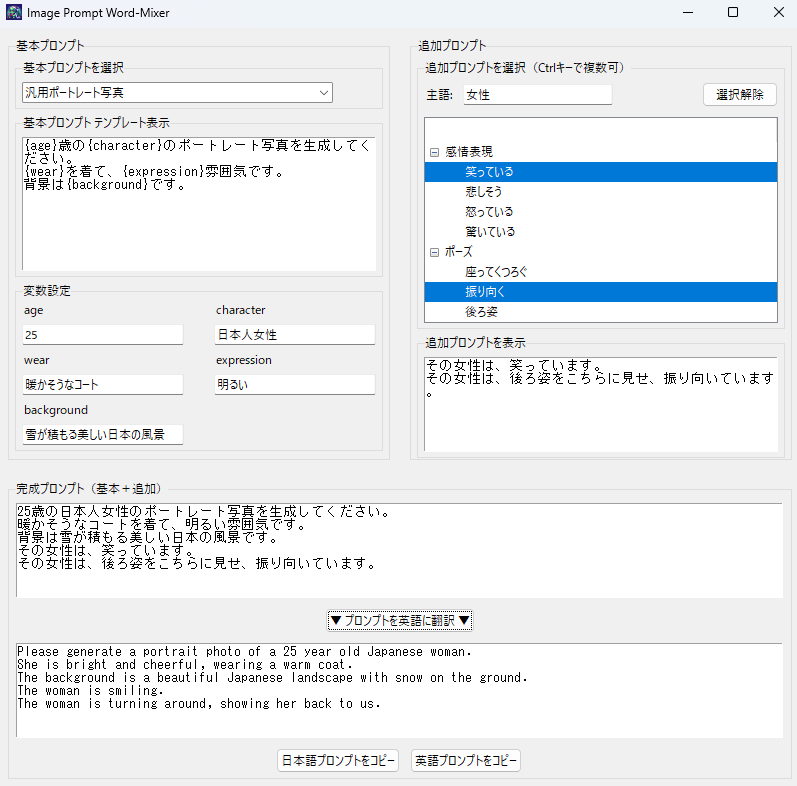
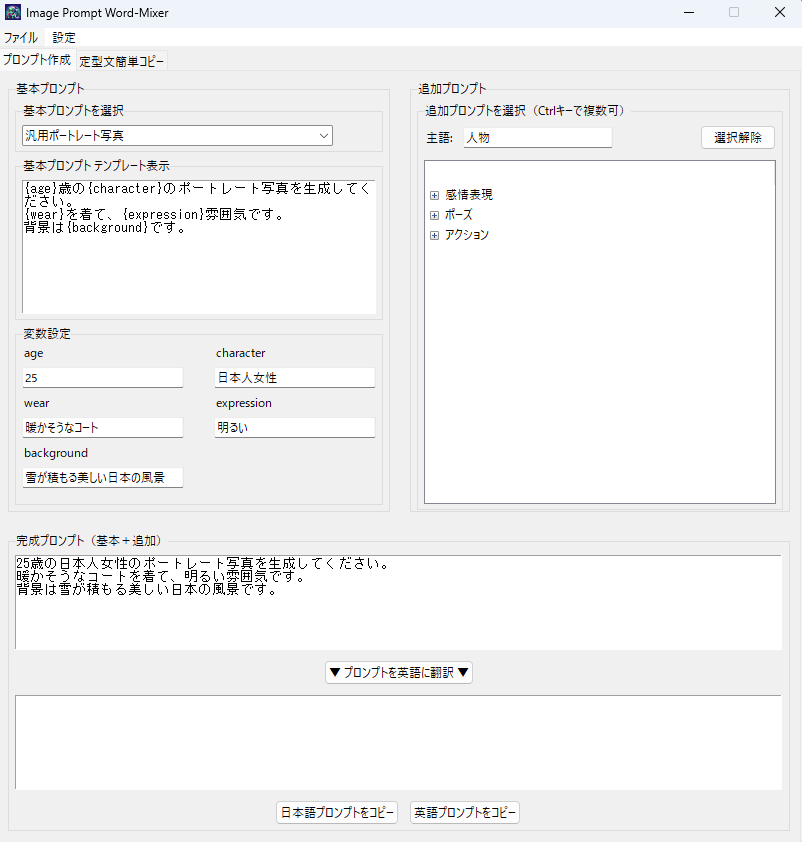
README更新

diff --git a/README.md b/README.md
@@ -1,6 +1,12 @@
-# Image Prompt Word-Mixer 
-**Image Prompt Word-Mixer** は、画像生成に使用するプロンプトのワードを自由に組み替えることで、さまざまなパターンの画像作成を支援するデスクトップアプリケーションです。
- 
+# Image Prompt Word-Mixer
+
+**Image Prompt Word-Mixer** は、画像生成に用いるプロンプトのワードを自由に組み替えることで、さまざまなパターンの画像作成を支援するデスクトップアプリケーションです。  
+
+本アプリケーションは、Gemini や Microsoft Copilot のような画像生成機能を持つ対話型AIツールと組み合わせて利用することを想定しています。  
+対話型AIツールによる画像生成では、従来の画像生成AIツールのように大量のプロンプトを入力しても、期待通りの画像が得られなかったり、フィルタにより生成が制限される場合があります。そこで、まずはシンプルで短いプロンプトでベースとなる画像を作成し、その画像に対して対話を重ねながら目的の画像に仕上げることが重要です。  
+
+Image Prompt Word-Mixer では、基本的でシンプルなプロンプトの多彩なバリエーションを作成できるほか、対話時に品質向上や特徴づけのための定型文を迅速にコピーすることが可能です。このツールによって、今までにない画像生成体験をお楽しみいただけます🐢
+
 <div align="center">
   <img src="./image/winter_tool.png" alt="Winter Tool" width="650"/>
   <p>Image Prompt Word-Mixer の画面</p>
@@ -12,141 +18,206 @@
 
 ## 使い方
 
-1. **環境設定**  
-   - Python 3.x がインストールされていることを確認してください。  
-   - 依存パッケージとして [requests](https://pypi.org/project/requests/) を利用しているため、以下のコマンドでインストールしてください。  
-   ※なお、ホスト環境にインストールすることが気になる方は、適宜venv(Python仮想環境など)を利用してください。
+### 1. 環境設定
 
-     ```sh
-     pip install requests
-     ```  
+- Python 3.x がインストールされていることを確認してください。
+- 依存パッケージとして [requests](https://pypi.org/project/requests/) を利用しているため、以下のコマンドでインストールしてください。  
+  ※なお、ホスト環境にインストールすることが気になる方は、適宜venv(Python仮想環境など)を利用してください。
 
-2. **起動方法**  
-   - プロジェクトルートディレクトリに移動し、以下のコマンドでアプリケーションを起動してください。  
-     ```sh
-     python app.py
-     ```  
-   - [app.py](app.py) をエントリーポイントとして、GUI ウィンドウが表示されます。
+  ```sh
+  pip install requests
+  ```
 
-3. **GUI の操作**  
-   - **基本プロンプト**  
-     画面左側では、ドロップダウンリストから基本プロンプトを選択すると、テンプレートと変数入力欄が表示されます。  
-     - 例: 「人物がものを持っている」を選択すると、`{character}`、`{goods}`、`{state}` の各変数の初期値が入力欄に表示され、これらを編集するとプロンプトが更新されます。
+### 2. 起動方法
 
-   - **追加プロンプト**  
-     画面右側では、まず`主語`に「男性」や「女性」など入力し、Treeview から追加プロンプト（感情表現やアクションなど）を選択することで、プロンプトを作成できます。このとき`Ctrlキー`を押しながら複数選択することもできます。ツリー表示右上の`選択解除ボタン`を押すと、選択が解除されます。
-     - 例: 「笑顔」や「走っている」を選択すると、各プロンプトが選択され、内部でプレースホルダー `{character}` が「主語」で指定した文字列に置換されます。
+- プロジェクトルートディレクトリに移動し、以下のコマンドでアプリケーションを起動してください。
 
-   - **完成プロンプト**  
-     基本プロンプトと追加プロンプトが結合され、下部のテキストエリアに完成プロンプトとして表示されます。  
+  ```sh
+  python app.py
+  ```
+- [app.py](app.py) をエントリーポイントとして、GUI ウィンドウが表示されます。
 
-   - **プロンプト英語翻訳（任意）**  
-     生成完了した日本語のプロンプトを `DeePL API` を利用して英訳することもできます。  
-     英語翻訳機能を利用しない場合は、この項目はスキップしてください。
+### 3. GUI の操作
 
-      - **API キーの取得**  
-        `DeePL API` を利用するためには API キーが必要です。API キーは DeePL の公式サイト  
-        [https://www.deepl.com/ja/pro-api](https://www.deepl.com/ja/pro-api)  
-        で取得してください。なお、API 利用には、ユーザー登録、住所登録、クレジットカード登録が必要です。
+#### プロンプト作成タブ画面
 
-      - **API キーの設定 ([api_key.json](api_key.json))**  
-        DeePL の API キーを取得したら、`api_key.json` に保存してください。  
-        以下の JSON フォーマットの `your_api_key_here` の部分を、実際の API キーに置き換えてください。
+<div align="center">
+  <img src="./image/winter_tool_usage.png" alt="プロンプト作成タブ" width="650"/>
+  <p>プロンプト作成タブの画面</p>
+</div>
 
-        ```json
+- **基本プロンプト**  
+  基本となるプロンプトを作成します。  
+  ① 画面左側の「基本プロンプトを選択」から、使用したいテンプレートを選択します。  
+  ② テンプレートが中央のテキストエリアに表示されます。テンプレート内の `{変数名}` を自由に編集して、プロンプトをカスタマイズできます。  
+  変数に対応する入力欄も表示されるので、こちらを編集することでも変数を変更できます。
+
+- **追加プロンプト**  
+  基本プロンプトに、追加の要素を加えて画像のバリエーションを増やします。  
+  ③ 画面右上の「主語」欄に、画像に登場させたい人物やオブジェクトを入力します（例: 女性、猫など）。  
+  ④ ツリービューから追加したい要素を選択します。複数選択も可能です。選択した要素が完成プロンプトに追加されます。
+
+- **完成プロンプト**  
+  基本プロンプトと追加プロンプトが結合され、画面下部のテキストエリアに最終的なプロンプトが表示されます。
+
+- **プロンプト英語翻訳（任意）**  
+  生成された日本語のプロンプトを `DeePL API` を利用して英訳できます。画面上部の設定メニューの「APIキー設定」から、API キーを設定するか、api_key.json ファイルに直接記述することで利用できます。
+
+  - **API キーの取得**  
+    `DeePL API` を利用するためには API キーが必要です。API キーは DeePL の公式サイト  
+    [https://www.deepl.com/ja/pro-api](https://www.deepl.com/ja/pro-api)  
+    で取得してください。なお、API 利用には、ユーザー登録、住所登録、クレジットカード登録が必要です。 
+    
+  英語翻訳機能を利用しない場合は、この項目はスキップしてください。  
+  ⑤ 「▼ プロンプトを英語に翻訳 ▼」ボタンを押すと、プロンプトが翻訳されます。
+
+- **プロンプトのコピー**  
+  ⑥ 完成したプロンプトは「コピーボタン」を押すことで、クリップボードにコピーできます。確認ダイアログは表示されず、すぐに利用可能です。
+
+#### 定型文簡単コピータブ画面
+
+<div align="center">
+  <img src="./image/winter_tool_easy_usage.png" alt="定型文簡単コピータブ" width="650"/>
+  <p>定型文簡単コピータブの画面</p>
+</div>
+
+- **定型文の簡単コピー**  
+  ① コピーボタンを押すと、あらかじめ設定したプロンプトを、ボタンを押すだけで素早くクリップボードにコピーできます。
+- **定型文の確認・編集**  
+  ② ボタンを押したタイミングでコピーが完了します。基本的には①の操作のみで問題ありませんが、この項目ではボタンのタイトルや定型文を確認・編集できます。
+- **設定の更新・保存**  
+  ③ 「更新・保存」ボタンを押すと、②で編集した内容が保存されます。「Jsonリロード」ボタンを押すと、設定ファイルの内容が画面に反映されます。
+
+### 4. JSON ファイルの編集方法
+
+このソフトウェアでは、プロンプトのテンプレートは JSON 形式で管理されています。利用するテンプレート用 JSON ファイルは以下の 2 種類です。
+
+#### 基本プロンプト (basic_prompts.json)
+
+基本プロンプトは生成する画像のベースとなるテンプレート情報を含み、テンプレートと変数の初期値が定義されています。
+
+ファイル例:
+
+```json
+[
+  {
+    "name": "人物がものを持っている",
+    "prompt": "{character}が{goods}を持っている写真を生成してください。\n{goods}は、{state}です。",
+    "default_variables": {
+      "character": "中年男性",
+      "goods": "マグカップ",
+      "state": "ユニーク"
+    }
+  },
+  {
+    "name": "背景をバックにポーズを取る",
+    "prompt": "{character}が{background}を背景にポーズをとっている写真を生成してください。",
+    "default_variables": {
+      "character": "アメリカ人女性",
+      "background": "美しい夕焼け"
+    }
+  }
+]
+```
+
+各オブジェクトは以下のキーを持ちます:
+
+- **name**  
+  プロンプトの名称です。GUI 上ではこの名前が表示され、ユーザーがテンプレートを識別するために利用されます。
+
+- **prompt**  
+  画像生成に用いられる説明テンプレートです。中に含まれる `{character}` などのプレースホルダーは、実行時に `default_variables` の値やユーザーの入力で置換されます。
+
+- **default_variables**  
+  テンプレート内に含まれる各プレースホルダーの初期値を定義します。ユーザーはこの初期値を編集して、最終的なプロンプトを生成できます。
+
+#### 追加プロンプト (element_prompts.json)
+
+追加プロンプトは基本プロンプトに追加するオプション文章を管理します。
+
+ファイル例:
+
+```json
+{
+    "default_subject": "人物",
+    "categories": [
         {
-            "api_key": "your_api_key_here"
+            "category": "感情表現",
+            "prompt_lists": [
+                {"title": "笑っている", "prompt": "その{character}は、笑っています。"},
+                {"title": "悲しそう", "prompt": "その{character}は、悲しそうです。"},
+                {"title": "怒っている", "prompt": "その{character}は、怒っています。"},
+                {"title": "驚いている", "prompt": "その{character}は、驚いています。"}
+            ]
+        },
+        {
+            "category": "アクション",
+            "prompt_lists": [
+                {"title": "走っている", "prompt": "その{character}は、素早く走っている。"},
+                {"title": "ジャンプしている", "prompt": "その{character}は、ジャンプしています。"},
+                {"title": "クライミング", "prompt": "その{character}は、壁を登っています。"},
+                {"title": "飛んでいる", "prompt": "その{character}は、空を飛んでいます。"}
+            ]
         }
-        ```
-      - **英語に翻訳ボタン**  
-        日本語プロンプトが完成している状態で `▼ プロンプトを英語に翻訳 ▼` ボタンをクリックすると、日本語の完成プロンプトが `DeePL API` を利用して英訳され、その結果が下部のテキスト領域に表示されます。  
-        なお、日本語プロンプト欄が空欄の場合、または API キーが設定されていない場合は、エラーメッセージが表示されます。
+    ]
+}
+```
 
-    - **プロンプトのコピー**  
-      完成したプロンプトは「コピーボタン」を押すことで、クリップボードにコピーすることができます。確認ダイアログは表示されませんので、すぐに利用可能です。
+各オブジェクトは以下のキーを持ちます:
 
-4. **JSON ファイルの作成方法**  
+- **default_subject**
+  主語のデフォルト値を定義します。GUI 上の「主語」テキストボックスの初期値として利用されます。
 
-   このソフトウェアでは、プロンプトのテンプレートは JSON 形式で管理されています。利用するテンプレート用 JSON ファイルは以下の 2 種類です。
+- **categories**  
+  追加プロンプトのカテゴリを定義するリストです。
 
-   - **基本プロンプト (basic_prompts.json)**
+  各カテゴリは以下のキーを持ちます:
 
-     基本プロンプトは生成する画像のベースとなるテンプレート情報を含み、テンプレートと変数の初期値が定義されています。  
-     
-     ファイル例:
-     ```json
-     [
-         {
-             "name": "人物がものを持っている",
-             "prompt": "{character}が{goods}を持っている写真を生成してください。\n{goods}は、{state}です。",
-             "default_variables": {
-                 "character": "中年男性",
-                 "goods": "マグカップ",
-                 "state": "ユニーク"
-             }
-         },
-         {
-             "name": "背景をバックにポーズを取る",
-             "prompt": "{character}が{background}を背景にポーズをとっている写真を生成してください。",
-             "default_variables": {
-                 "character": "アメリカ人女性",
-                 "background": "美しい夕焼け"
-             }
-         }
-     ]
-     ```
+  - **category**  
+    追加プロンプトを分類するためのカテゴリ名です。GUI 上でグループ分けに利用されます。
 
-     各オブジェクトは以下のキーを持ちます:
+  - **prompt_lists**  
+    各カテゴリ内で定義された追加プロンプトのリストです。
 
-     - **name**  
-       プロンプトの名称です。GUI 上ではこの名前が表示され、ユーザーがテンプレートを識別するために利用されます。
+    各要素は以下のキーを持ちます:
 
-     - **prompt**  
-       画像生成に用いられる説明テンプレートです。中に含まれる `{character}` などのプレースホルダーは、実行時に `default_variables` の値やユーザーの入力で置換されます。
+    - **title**  
+      プロンプトの名称です。GUI 上ではツリービューの各項目として表示され、ユーザーが内容を識別する際に利用されます。
 
-     - **default_variables**  
-       テンプレート内に含まれる各プレースホルダーの初期値を定義します。ユーザーはこの初期値を編集して、最終的なプロンプトを生成できます。
+    - **prompt**  
+      実際に画像生成に用いられる説明テンプレートです。テンプレート内に含まれる `{character}` のプレースホルダーは、実行時に「主語」テキストボックスに指定された文字列に置換されます。
 
-   - **追加プロンプト (element_prompts.json)**
+#### ワンクリックプロンプト (one_click.json)
 
-     追加プロンプトは基本プロンプトに追加するオプション文章を管理します。  
-     
-     ファイル例:
-     ```json
-     [
-         {
-             "category": "感情表現",
-             "prompt_lists": [
-                 {"title": "笑顔", "prompt": "その{character}は、笑顔です。"},
-                 {"title": "悲しい", "prompt": "その{character}は、悲しそうです。"}
-             ]
-         },
-         {
-             "category": "アクション",
-             "prompt_lists": [
-                 {"title": "走っている", "prompt": "その{character}は、素早く走っている。"},
-                 {"title": "ジャンプしている", "prompt": "その{character}は、ジャンプしています。"},
-                 {"title": "クライミング", "prompt": "その{character}は、壁を登っています。"}
-             ]
-         }
-     ]
-     ```
+定型文簡単コピータブで使用する定型文を管理します。
 
-     各カテゴリおよびプロンプトオブジェクトは以下のキーを持ちます：
+ファイル例:
 
-     - **category**  
-       追加プロンプトを分類するためのカテゴリ名です。GUI 上でグループ分けに利用されます。
+```json
+[
+    {
+        "title": "同等画像の再生成",
+        "text": "良い出力結果です。\nこの写真と同等の写真を生成してください。"
+    },
+    {
+        "title": "顔ズームアップ",
+        "text": "もう少し顔をアップにしたポートレート写真にしてください。"
+    },
+    {
+        "title": "（空き）",
+        "text": ""
+    }
+]
+```
 
-     - **prompt_lists**  
-       各カテゴリ内で定義された追加プロンプトのリストです。  
+各オブジェクトは以下のキーを持ちます:
 
-       各要素は以下のキーを持ちます:
-     
-       - **title**  
-         プロンプトの名称です。GUI 上ではツリービューの各項目として表示され、ユーザーが内容を識別する際に利用されます。
+- **title**  
+  ボタンの名称です。GUI 上ではボタンのラベルとして表示されます。
 
-       - **prompt**  
-         実際に画像生成に用いられる説明テンプレートです。テンプレート内に含まれる `{character}` のプレースホルダーは、実行時に「主語」テキストボックスに指定された文字列に置換されます。
+- **text**  
+  コピーされる定型文テキストです。ボタンを押すと、このテキストがクリップボードにコピーされます。
+
 
 ## exeファイルの作成
 
@@ -167,15 +238,18 @@ pyinstaller --onefile --windowed app.py
 作成されたexeファイルと同階層に
 - basic_prompts.json
 - element_prompts.json
-- api_key.json  
+- one_click.json
+- api_key.json
 
 を配置してください。
 
 ## ライセンス
+
 ライセンスファイルを参照してください  
 [LICENSE ファイルへ](LICENSE)
 
 ## 最後に
+
 もし問題やご要望がありましたら、issue でご連絡ください。
 
 
